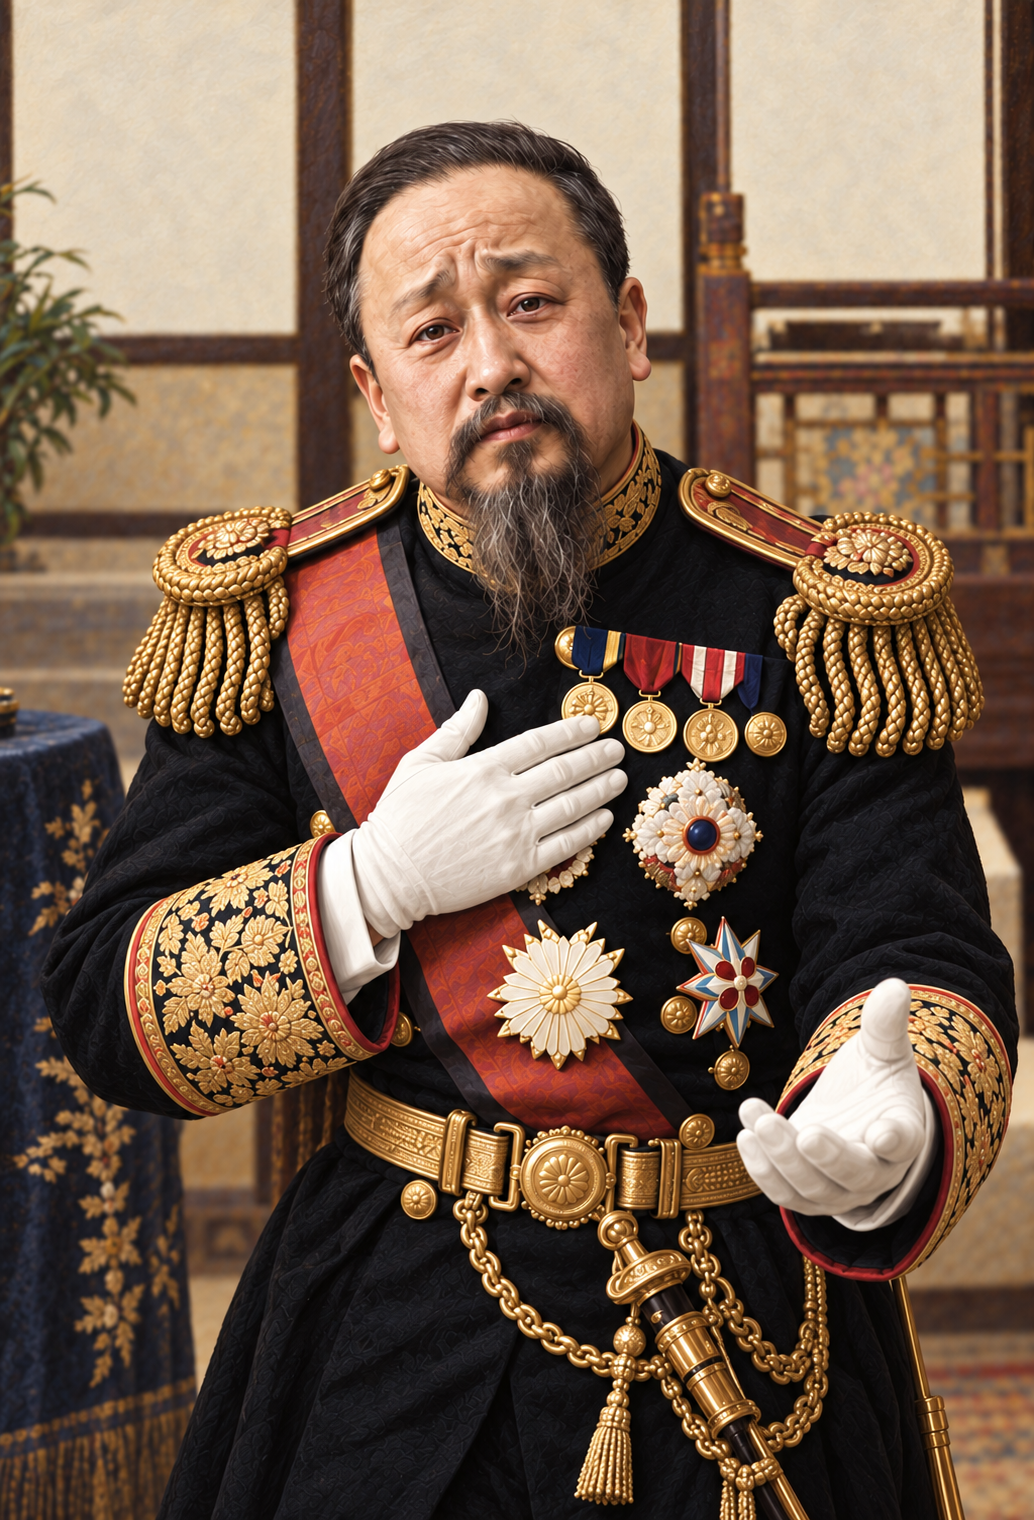
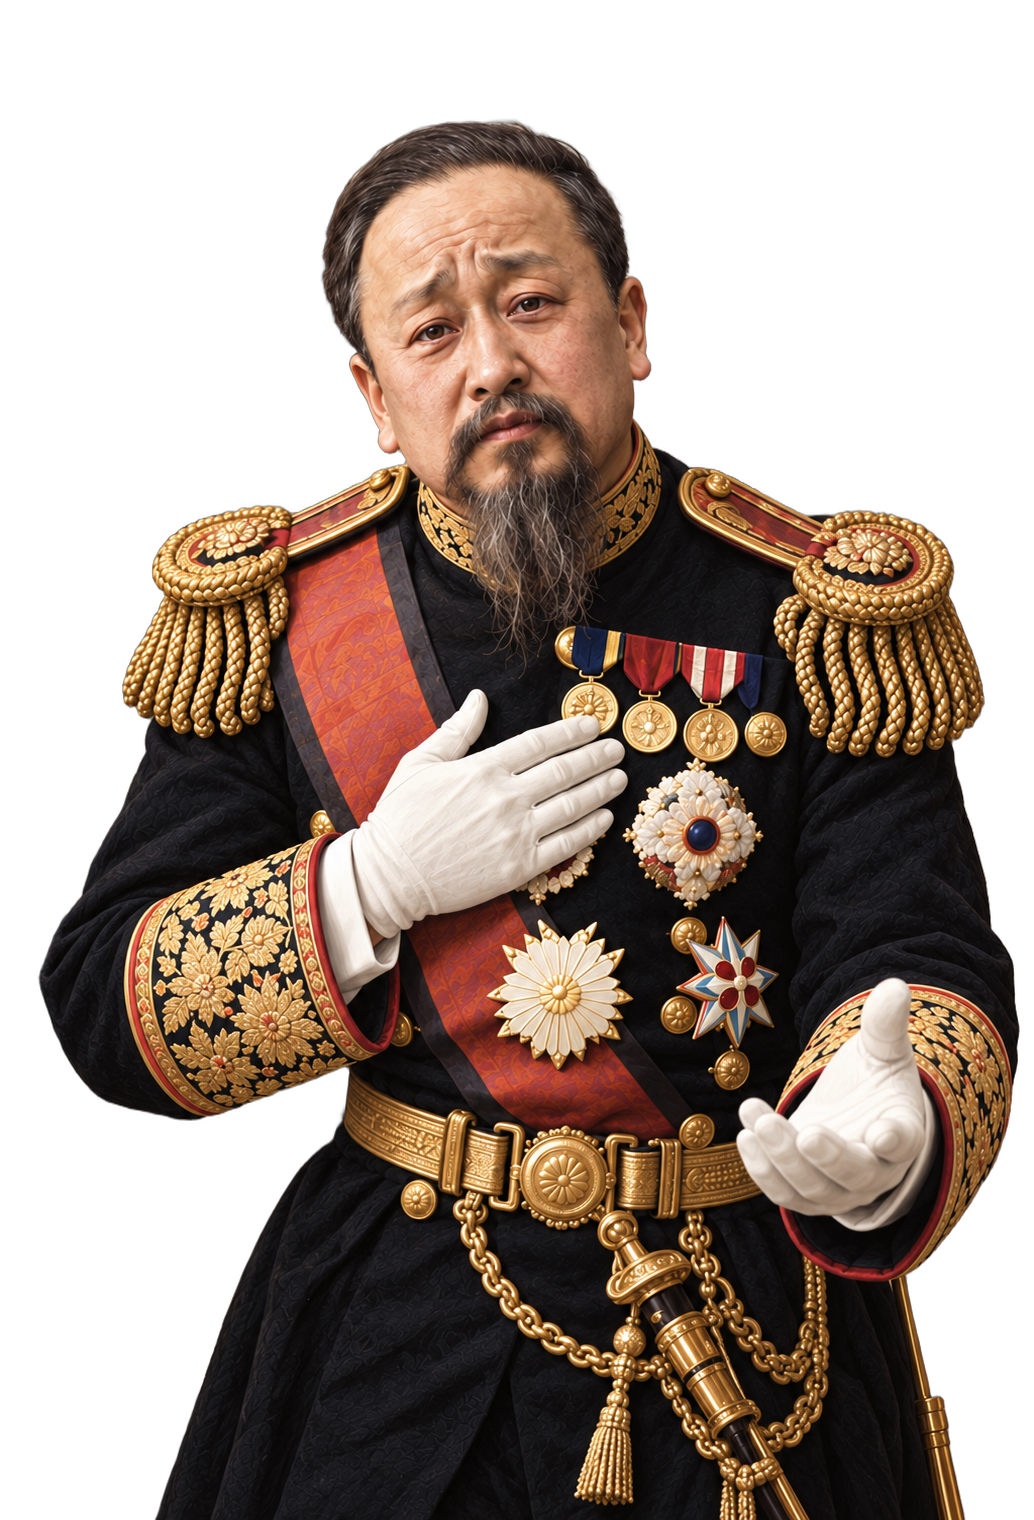
이미지 누끼

diff --git a/remove_bg.py b/remove_bg.py
@@ -4,7 +4,8 @@ import os
 
 # 누끼를 적용할 폴더
 folders = [
-    "FE/public/images/gojong"
+    "FE/public/images/gojong/young",
+    "FE/public/images/gojong/characters"
 ]
 
 for folder in folders:
